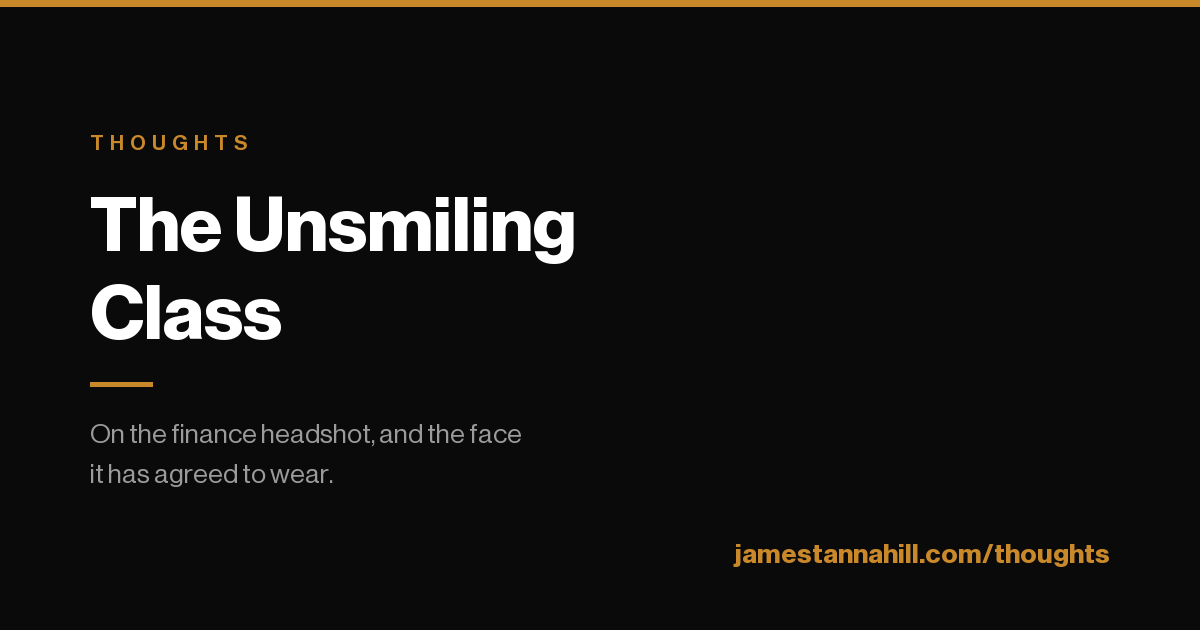
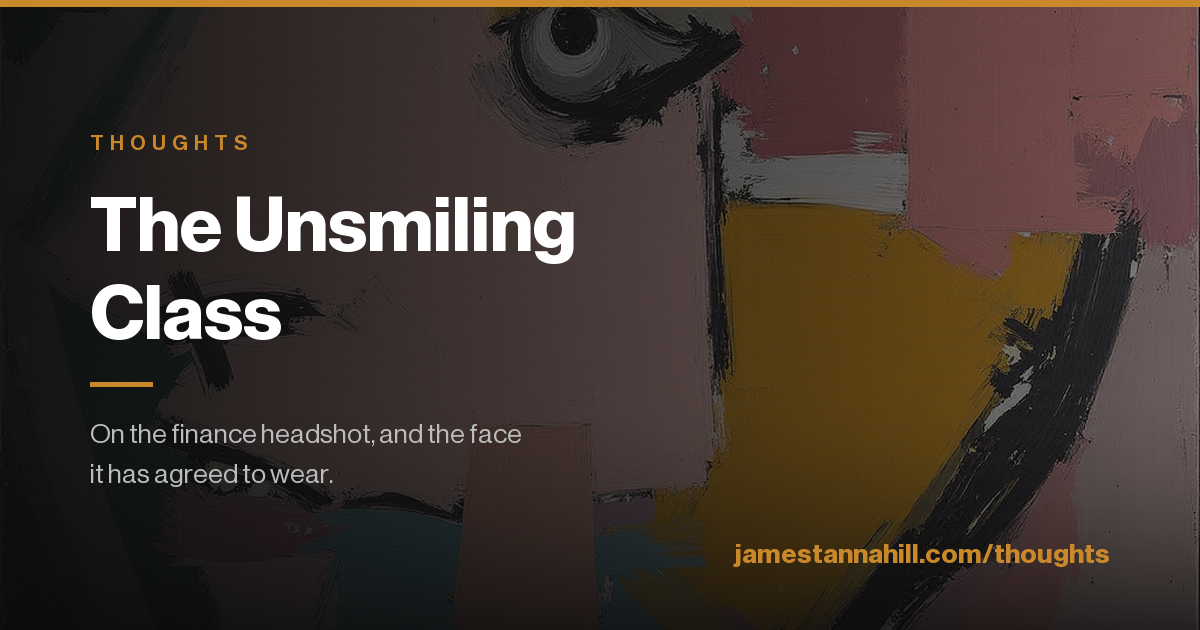
tweak: OG cards blend each essay's own artwork behind the title
Cover-cropped artwork, desaturated and dimmed, under two veils: horizontal
(0.93 left to 0.40 right) so the headline holds contrast, and a bottom fade
so the URL needs no plate. Guerir takes 60S 60W, The Unsmiling Class takes
the de Kooning face at 45N 90E, the index takes 60S 0E. Generator kept at
scripts/gen-og-thoughts.py.

diff --git a/scripts/gen-og-thoughts.py b/scripts/gen-og-thoughts.py
@@ -1,0 +1,139 @@
+"""OG cards: each essay's own artwork as a blended ground under the title.
+
+The artwork is cover-cropped to 1200x630, darkened, and veiled by a horizontal
+gradient that is near-opaque on the left where the type sits and thins out to
+the right so the painting stays readable as a painting. Same furniture as the
+first cards: amber hairline, tracked eyebrow, NHG Display headline, amber rule,
+grey standfirst, amber URL.
+"""
+from fontTools.ttLib import TTFont
+from PIL import Image, ImageDraw, ImageFont, ImageEnhance
+import pathlib
+
+SRC = pathlib.Path.home() / "jamestannahill-map/fonts"
+ART = pathlib.Path(__file__).resolve().parent.parent
+OUT = pathlib.Path.home() / "jamestannahill-com/public"
+TMP = pathlib.Path(__file__).parent / "ttf"
+TMP.mkdir(exist_ok=True)
+
+AMBER = (201, 136, 42)
+WHITE = (255, 255, 255)
+GREY = (188, 188, 188)
+W, H = 1200, 630
+
+
+def ttf(name):
+    dst = TMP / (name + ".ttf")
+    if not dst.exists():
+        f = TTFont(SRC / (name + ".woff2"))
+        f.flavor = None
+        f.save(dst)
+    return str(dst)
+
+
+BOLD, MED, ROMAN = ttf("NHGDisplay-Bold"), ttf("NHGDisplay-Medium"), ttf("NHGDisplay-Roman")
+
+
+def tracked(draw, xy, text, font, fill, tracking):
+    x, y = xy
+    for ch in text:
+        draw.text((x, y), ch, font=font, fill=fill)
+        x += draw.textlength(ch, font=font) + tracking
+
+
+def cover(img, w, h):
+    """Scale to fill w x h, centre-crop the overflow."""
+    scale = max(w / img.width, h / img.height)
+    img = img.resize((round(img.width * scale), round(img.height * scale)), Image.LANCZOS)
+    left = (img.width - w) // 2
+    top = (img.height - h) // 2
+    return img.crop((left, top, left + w, top + h))
+
+
+def veil(base):
+    """Two veils: horizontal (0.93 left to 0.40 right) so the type reads, plus a
+    bottom-up fade so the URL sits on darkness without a hard plate."""
+    hor = Image.new("L", (W, 1))
+    for x in range(W):
+        t = x / (W - 1)
+        hor.putpixel((x, 0), int(255 * (0.93 - 0.53 * t)))
+    mask = hor.resize((W, H)).load()
+
+    m = Image.new("L", (W, H))
+    px = m.load()
+    for y in range(H):
+        # Bottom fade starts at 62% height and reaches 0.72 at the very bottom.
+        v = (y - 0.62 * H) / (0.38 * H)
+        bot = 0.72 * max(0.0, v) ** 1.6
+        for x in range(W):
+            a = mask[x, y] / 255.0
+            px[x, y] = int(255 * min(1.0, a + bot * (1 - a)))
+
+    ink = Image.new("RGB", (W, H), (10, 10, 10))
+    return Image.composite(ink, base, m)
+
+
+def card(path, artwork, eyebrow, title_lines, standfirst_lines, url):
+    art = Image.open(ART / artwork).convert("RGB")
+    img = cover(art, W, H)
+    img = ImageEnhance.Color(img).enhance(0.82)
+    img = ImageEnhance.Brightness(img).enhance(0.86)
+    img = veil(img)
+
+    d = ImageDraw.Draw(img)
+    d.rectangle([0, 0, W, 6], fill=AMBER)
+
+    f_eyebrow = ImageFont.truetype(MED, 21)
+    f_title = ImageFont.truetype(BOLD, 76)
+    f_sub = ImageFont.truetype(ROMAN, 27)
+    f_url = ImageFont.truetype(BOLD, 27)
+
+    x, y = 90, 132
+    tracked(d, (x, y), eyebrow.upper(), f_eyebrow, AMBER, 6)
+
+    y += 56
+    for line in title_lines:
+        d.text((x, y), line, font=f_title, fill=WHITE)
+        y += 88
+
+    y += 18
+    d.rectangle([x, y, x + 62, y + 4], fill=AMBER)
+
+    y += 38
+    for line in standfirst_lines:
+        d.text((x, y), line, font=f_sub, fill=GREY)
+        y += 40
+
+    w = d.textlength(url, font=f_url)
+    d.text((W - 90 - w, H - 90), url, font=f_url, fill=AMBER)
+
+    img.save(OUT / path, optimize=True)
+    print("wrote", path, img.size, round((OUT / path).stat().st_size / 1024), "KB")
+
+
+card(
+    "og-guerir-quelquefois.png",
+    "art-south-america-60s-60w.png",
+    "Thoughts",
+    ["Guérir", "Quelquefois"],
+    ["On the word “cure,” and the men who sell it."],
+    "jamestannahill.com/thoughts",
+)
+
+card(
+    "og-the-unsmiling-class.png",
+    "art-central-asia-45n-90e.png",
+    "Thoughts",
+    ["The Unsmiling", "Class"],
+    ["On the finance headshot, and the face", "it has agreed to wear."],
+    "jamestannahill.com/thoughts",
+)
+
+card(
+    "og-thoughts.png",
+    "art-region-60s-0e.png",
+    "Thoughts",
+    ["Occasional", "Essays"],
+    ["Markets, medicine, and the language", "both are written in."],
+    "jamestannahill.com/thoughts",
+)
